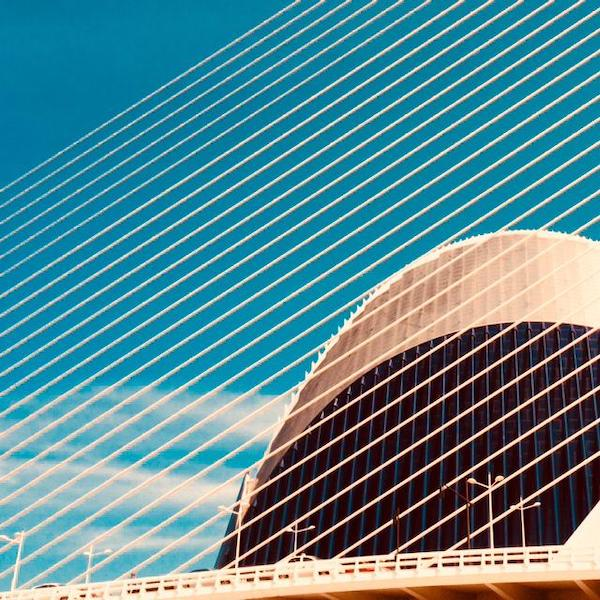
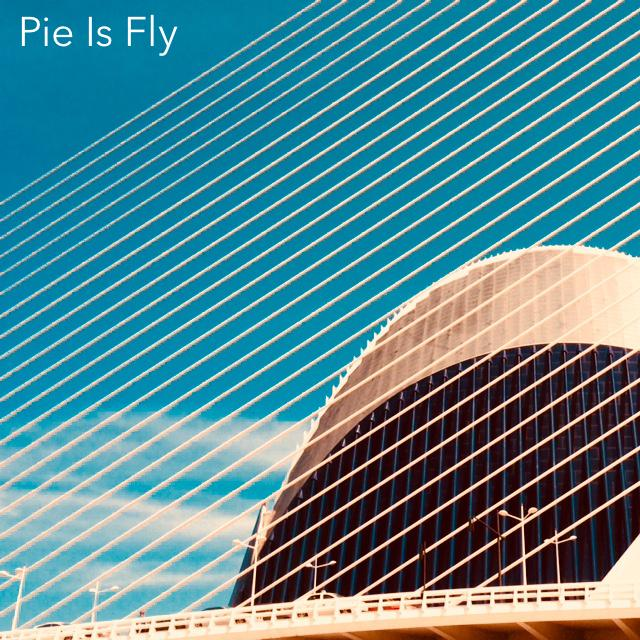
add pie is fly page and blogpost

diff --git a/blogpost-pie-is-fly.html b/blogpost-pie-is-fly.html
@@ -1,0 +1,70 @@
+<!DOCTYPE html>
+<html lang="en">
+
+<head>
+    <meta charset="UTF-8">
+    <meta name="description" content="'Pie is Fly' provides more detail about the concept of her EP along with discussion of the composition/production decisions in the experimental interludes.">
+    <title>Blogpost: Pie Is Fly | Mia Windsor Composer</title>
+    <link rel="preconnect" href="https://fonts.gstatic.com/" crossorigin>
+    <link rel="preload" href="https://fonts.gstatic.com/s/raleway/v17/1Ptxg8zYS_SKggPN4iEgvnHyvveLxVvaorCIPrE.woff2" as="font" crossorigin>
+    <link rel="stylesheet" href="styles.css" />
+    <link rel="icon" href="https://miawindsor.com/favicon.ico?v=2">
+    <link rel="shortcut icon" href="favicon.ico" type="image/x-icon">
+</head>
+
+<body>
+    <div class="table">
+        <header class="table__row container--wrap-content">
+            <nav class="nav">
+                <ul class="nav__ul">
+                    <li><a href="index">HOME</a></li>
+                    <li><a href="contemporary-works">CONTEMPORARY WORKS</a></li>
+                    <li><a href="casual-works">CASUAL WORKS</a></li>
+                    <li><a href="blog">BLOG</a></li>
+                    <li><a href="contact">CONTACT</a></li>
+                </ul>
+            </nav>
+        </header>
+        <main class="table__row container--fill-parent">
+            <article>
+                <h1 class="container--margin-horizontal-20px text--centered text--32px">Pie Is Fly: the concept and the interludes
+                </h1>
+                <p class="container--margin-horizontal-20px text--centered text--bold">(25/08/2020)</p>
+                <div class="container--fixed-width-90 container--centered">
+                    <p class="container--centered container--margin-top-48px text--spaced">There’s something quite special about women shouting about supermarkets and not giving a shit. There’s also something quite special about contemporary experimental music, that’s really been thought through, and you’re probably not
+                        supposed to giggle at.</p>
+                    <p class="container--centered container--margin-top-48px text--spaced">Slop pop and contemporary experimental music typically don’t mix. Of course, it tends to be that popular music and art music don’t mix often in general, possibly due to the fact that the latter often refuses to acknowledge itself as
+                        a commodity. However on a personal level, what really stands out with these genres is the perceived carelessness of slop pop and punk in contrast with the seriousness of contemporary music. For those not familiar with slop pop,
+                        I’d recommend listening to the band Diet Cig as they were the primary influence here (I’m also a bit of a superfan).</p>
+                    <p class="container--centered container--margin-top-48px text--spaced">My general approach with this EP was to link pop tracks with contemporary music interludes in order to display them in harmony, while allowing them to retain their character. I also decided to link them directly, so that they had to
+                        be listened to as one, as I like the idea of challenging popular and contemporary music discourse and forcing both to be acknowledged and (hopefully) valued. Though two of the tracks on the EP are indie rather than slop pop, I
+                        still was able to enhance this perceived messiness and carelessness in <i>Oscar</i> and <i>David Gandy</i> to make the contrast apparent.
+                    </p>
+                    <p class="container--centered container--margin-top-48px text--spaced">Very little explanation is needed for the pop (and lo-fi hip hop) tracks on this album; they exist to be enjoyed as they are. However, I would like to go into more detail on the contemporary tracks:</p>
+                    <h2 class="container--margin-top-48px text--20px">ASMR interlude</h2>
+                    <p class="container--centered container--margin-top-48px text--spaced">The idea for this track came from my admiration for Holly Herndon sticking an ASMR track (<i>Lonely at the Top</i>) in the middle of her album <i>Platform</i>. Unlike Herndon, I lacked the guts to make mine very extensive, and ended
+                        up cramming ASMR triggers into 30 seconds, mainly because I wanted to maintain consistency; however, this did become an interesting challenge for me. I decided to explore my ASMR recordings through granular synthesis and make more
+                        of some of the tiny fragments I had. For example, the water sound at the start comes from a short recording of me pouring a cup of tea. Using a granular synth also meant I was able to create some sustained pitched sounds from spoken
+                        ASMR parts that led to some nice vocal layers and a smooth transition into <i>It's Not Me, It's You</i>.
+                    </p>
+                    <h2 class="container--margin-top-48px text--20px">Just Intonation interlude</h2>
+                    <p class="container--centered container--margin-top-48px text--spaced">This interlude is another experiment with the Max patch that I used for my piece
+                        <i><a class="a--blue" target="_blank" rel="noopener noreferrer" href="perfection-distortion-expansion">Perfection, Distortion, Expansion</a></i>, this time mainly focusing on the perfection part. The patch functions by instructing
+                        a vocalist to sing in a certain way, then manipulates their vocals in real-time based on their responses, to achieve chords, melodies and glissandi using alternative tuning. I decided to exploit the features that could achieve
+                        'perfect' tuning of an interval (Just Intonation). This occurs in a harmonic context (at the start) and a melodic context (at the end). Interestingly, the melodic ideas at the end were not a choice of my own and were actually generated
+                        by the patch.
+                    </p>
+                    <p class="container--centered container--margin-top-48px text--spaced">I found this interlude particularly challenging because, due to the Just Intonation aspect and random generative nature of the patch, I had to leave the texture very sparse (as otherwise, Just Intonation would not have been achieved).
+                        However, I find it quite peaceful to listen to and I would like to explore alternative tuning systems as a more significant part of a project in the future.
+                    </p>
+                    <h2 class="container--margin-top-48px text--20px">A reverb tail</h2>
+                    <p class="container--centered container--margin-top-48px container--margin-bottom-48px text--spaced">The idea for this interlude emerged when I noticed that <i>Photo Day</i> had a fairly long reverb tail. I decided to extend this further by adding and automating two different reverbs (that emphasise different frequencies) to the last
+                        note of <i>Photo Day</i>. I then used samples of this reverb either tuned differently or put through a granular synth. So it’s basically a tiny bit of sound, and a lot of imaginary space.
+                    </p>
+                </div>
+            </article>
+        </main>
+    </div>
+</body>
+
+</html>

diff --git a/pie-is-fly.html b/pie-is-fly.html
@@ -1,0 +1,50 @@
+<!DOCTYPE html>
+<html lang="en">
+
+<head>
+    <meta charset="UTF-8">
+    <meta name="description" content="An array of transitions between punky slop pop, indie, contemporary experimental music and lo-fi hip hop.">
+    <meta name="viewport" content="width=device-width, initial-scale=1.0">
+    <title>Pie Is Fly | Mia Windsor Composer</title>
+    <link rel="preconnect" href="https://fonts.gstatic.com/" crossorigin>
+    <link rel="preload" href="https://fonts.gstatic.com/s/raleway/v17/1Ptxg8zYS_SKggPN4iEgvnHyvveLxVvaorCIPrE.woff2" as="font" crossorigin>
+    <link rel="stylesheet" href="styles.css" />
+    <link rel="icon" href="https://miawindsor.com/favicon.ico?v=2">
+    <link rel="shortcut icon" href="favicon.ico" type="image/x-icon">
+</head>
+
+<body>
+    <div class="table">
+        <header class="table__row container--wrap-content">
+            <nav class="nav">
+                <ul class="nav__ul">
+                    <li><a href="index">HOME</a></li>
+                    <li><a href="contemporary-works">CONTEMPORARY WORKS</a></li>
+                    <li><a href="casual-works">CASUAL WORKS</a></li>
+                    <li><a href="blog">BLOG</a></li>
+                    <li><a href="contact">CONTACT</a></li>
+                </ul>
+            </nav>
+        </header>
+        <main class="table__row container--fill-parent">
+            <article>
+                <h1 class="container--margin-horizontal-20px text--centered text--32px">Pie Is Fly</h1>
+                <div class="container--fixed-width-90 container--centered">
+                    <p class="container--centered container--margin-top-48px text--spaced">An array of transitions between punky slop pop, indie, contemporary experimental music and lo-fi hip hop. Listening in order is highly recommended.</p>
+                    <p class="container--centered container--margin-top-48px text--spaced">Written, recorded, performed and produced by Mia Windsor.</p>
+                    <p class="container--centered container--margin-top-48px text--spaced">Artwork by <a class="a--blue" target="_blank" rel="noopener noreferrer" href="https://www.instagram.com/paulvanblokland/">Paul van Blokland</a></p>
+                    <p class="container--centered container--margin-top-48px text--spaced"><a class="a--blue" target="_blank" rel="noopener noreferrer" href="https://open.spotify.com/album/3ekZrr3UvIwSdAZbCzYPtf">More detail on the concept of the EP and the contemporary interludes</a></p>
+                    <div class="flexbox flexbox--space-evenly container--margin-top-48px">
+                        <p class="container--centered text--spaced text--bold text--centered"><a target="_blank" rel="noopener noreferrer" href="https://open.spotify.com/album/3ekZrr3UvIwSdAZbCzYPtf">Spotify</a></p>
+                        <p class="container--centered text--spaced text--bold text--centered"><a target="_blank" rel="noopener noreferrer" href="https://music.apple.com/us/album/pie-is-fly/1529658525">Apple Music</a></p>
+                        <p class="container--centered text--spaced text--bold text--centered"><a target="_blank" rel="noopener noreferrer" href="https://pieisfly.bandcamp.com/releases">Bandcamp</a></p>
+                    </div>
+                    <iframe title="'Pie Is Fly' Spotify player" class="container--centered container--margin-top-20px container--margin-bottom-20px text--spaced" src="https://open.spotify.com/embed/album/3ekZrr3UvIwSdAZbCzYPtf" width="100%" height="350" frameborder="0" allowtransparency="true"
+                        allow="encrypted-media"></iframe>
+                </div>
+            </article>
+        </main>
+    </div>
+</body>
+
+</html>

diff --git a/blog.html b/blog.html
@@ -3,7 +3,7 @@
 
 <head>
     <meta charset="UTF-8">
-    <meta name="description" content="No blog posts yet - keep checking back!">
+    <meta name="description" content="Mia Windsor's thoughts on music composition, production and aesthetics.">
     <meta name="viewport" content="width=device-width, initial-scale=1.0">
     <title>Blog | Mia Windsor Composer</title>
     <link rel="preconnect" href="https://fonts.gstatic.com/" crossorigin>
@@ -27,8 +27,19 @@
             </nav>
         </header>
         <main class="table__row container--fill-parent">
-            <div class="flexbox container--fill-parent">
-                <p class="container--margin-horizontal-20px text--centered text--20px-responsive">No blog posts yet - keep checking back!</p>
+            <h1 class="container--margin-horizontal-20px text--centered">Blog</h1>
+            <div class="grid">
+                <section class="container--disappearing-border">
+                    <h2>Pie Is Fly: the concept and the interludes</h2>
+                    <p class="text--bold">(25/08/2020)</p>
+                    <p><a class="a--blue" href="blogpost-pie-is-fly">read blogpost</a></p>
+                </section>
+                <div class="flexbox container--padding container--appearing-border">
+                    <div class="container--margin-left-25">
+                        <img width="300" src="pie-is-fly-cover.jpg" alt="'Pie is Fly' cover" />
+                        <p class="text--centered">'Pie is Fly' cover by <a class="a--blue" target="_blank" rel="noopener noreferrer" href="https://www.instagram.com/paulvanblokland/">Paul van Blokland</a></p>
+                    </div>
+                </div>
             </div>
         </main>
     </div>

diff --git a/casual-works.html b/casual-works.html
@@ -31,10 +31,19 @@
             <div class="grid">
                 <section class="container--disappearing-border">
                     <h2>In Progress</h2>
-                    <h3>Pie is Fly</h3>
-                    <p>Coming soon. An array of transitions between slop pop, indie, contemporary experimental music and lo-fi hip hop.</p>
                     <h3>Static Caravan</h3>
-                    <p>Coming soon. Me making weird noises on a synth. Music written by Jack O’Connor and Matt Purbrick.</p>
+                    <p>Coming soon. Me making weird noises on a synth. Music written by Jack O’Connor and Matt Purbrick.
+                    </p>
+                </section>
+                <div class="flexbox container--padding container--appearing-border">
+                    <div class="container--margin-left-25">
+                        <img width="300" src="mia-windsor-standing-in-field.jpg" alt="'Pie is Fly' cover" />
+                    </div>
+                </div>
+                <section class="container--disappearing-border">
+                    <h2>2020</h2>
+                    <h3>Pie is Fly</h3>
+                    <p>An array of transitions between punky slop pop, indie, contemporary experimental music and lo-fi hip hop... <a class="a--blue" href="pie-is-fly">read more</a></p>
                 </section>
                 <div class="flexbox container--padding container--appearing-border">
                     <div class="container--margin-left-25">
